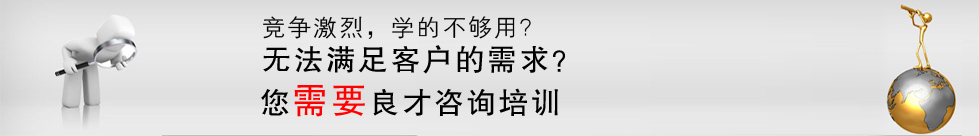
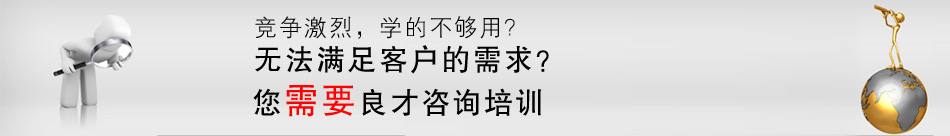
update images

diff --git a/public/stylesheets/style.css b/public/stylesheets/style.css
@@ -1092,7 +1092,7 @@ div#menu {
   padding-bottom: 6px; }
 
 div#menu div.wrapper {
-  background: url("/images/ba00.jpg");
+  background: url("/images/ba00.jpg") no-repeat scroll left bottom;
   font-size: 13px;
   padding-bottom: 0px;
   position: absolute;
@@ -1195,7 +1195,8 @@ div#hot_photos {
 
 .course_title {
   font-size: 16px;
-  text-align: center; }
+  text-align: center;
+  font-weight: bold; }
 
 .panel_left {
   background: url("../images/zl.gif") repeat-x scroll 0 0 transparent;

diff --git a/public/stylesheets/sass/style.scss b/public/stylesheets/sass/style.scss
@@ -168,7 +168,7 @@ div#menu {
 
 div#menu div.wrapper {
   //background: url("/images/ba00.jpg") repeat-x scroll left bottom #6293BB;
-  background: url("/images/ba00.jpg");
+  background: url("/images/ba00.jpg") no-repeat scroll left bottom;
   //bottom: 1;
   font-size: 13px;
   //left: 1;
@@ -316,6 +316,7 @@ div#hot_photos{
 .course_title {
     font-size: 16px;
     text-align: center;
+    font-weight: bold;
     //color:#066188;
 }
 
